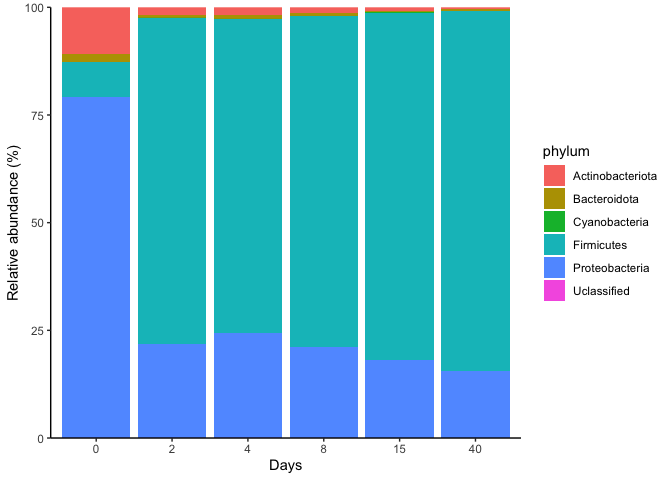
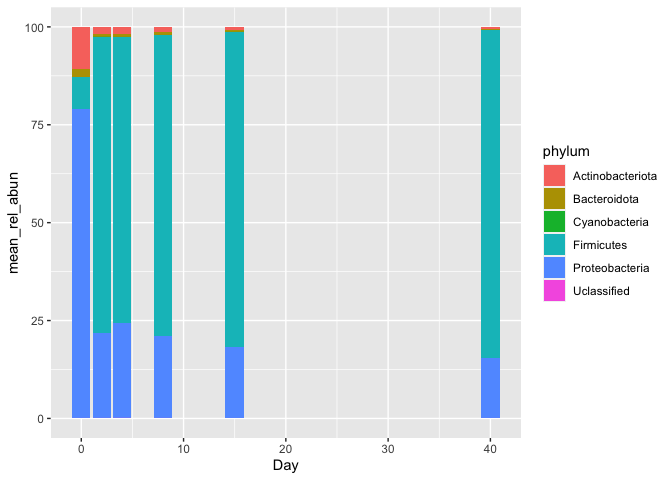
fix error

diff --git a/data_wrangling.md b/data_wrangling.md
@@ -1,4 +1,4 @@
-Data wrangling from amplicon sequencing
+Amplicon sequencing data wrangling
 ================
 Johan S. Sáenz
 
@@ -185,6 +185,30 @@ counts %>%
 
 ## Replace taxon names
 
+Microbial taxonomy is difficult :( . Sometimes, a name or taxonomy can
+not be assigned to a DNA sequence and we need to deal with that. What
+cases do we have? :
+
+1.  An empty value, no name no taxonomy.
+
+2.  The taxon can be call candidatus_xx. This probably means there is
+    not a cultivated reference similar to that sequence.
+
+3.  The taxon is call unclassified (That is self explanatory), but
+    sometimes a taxon can be classify at Phylum level and not to lower
+    levels. In that case we find names like: Family
+    =unclassified_Lactobacillaceae.
+
+As we want to standardize our names, we can rename those taxa with
+unfamiliar names. In that way we can group them later in the same group.
+For that we can use the function `mutate()` and `if_else()`. With the
+function `mutate()` you can add new variables and rewrite existing ones.
+On the other hand, `if_else()`, is a bit more complicated, because it
+works as a conditional. For example
+`if_else(is.na(phylum), "Uclassified", phylum))` if phylum is a missing
+value, rename to “Unclassified”, if not keep the value in phylum. This
+works great when we have empty or missing values.
+
 ``` r
 counts %>% 
   pivot_longer(-OTUID,
@@ -208,6 +232,15 @@ counts %>%
      9 b7baa37944fb48185b3ccd35739564a1 C40C      4730 Firmicutes
     10 b7baa37944fb48185b3ccd35739564a1 C4A       6459 Firmicutes
     # … with 5,804 more rows
+
+More often, when want to replace existing strings or text. In that case
+we can use `str_replace()`. This functions is quite versatile if you
+combine it with
+[Regex](https://cran.r-project.org/web/packages/stringr/vignettes/regular-expressions.html)
+(regular expressions). Have a look at the example, we used . and \* as
+special characters to match all characters after “candidatus” and
+“unclassified”. The . would match any character and \* would match 0 or
+more times the previous character.
 
 ``` r
 #An example for a different string
@@ -322,7 +355,7 @@ counts %>%
   geom_bar(stat = "identity")
 ```
 
-![](data_wrangling_files/figure-gfm/unnamed-chunk-8-1.png)
+![](data_wrangling_files/figure-gfm/unnamed-chunk-9-1.png)
 
 ## Create a factor with the data (correct x-axis) and PIMP your plot
 
@@ -352,7 +385,7 @@ counts %>%
   theme_classic()
 ```
 
-![](data_wrangling_files/figure-gfm/unnamed-chunk-9-1.png)
+![](data_wrangling_files/figure-gfm/unnamed-chunk-10-1.png)
 
 ## Select colors for bar plot
 
@@ -362,7 +395,7 @@ Brewer](https://colorbrewer2.org/#type=sequential&scheme=BuGn&n=3) to
 pull 8 different colors and create a vector as shown below.
 
 After, you can add a new layer to the pipe to set the color palette
-chosen by you using `scale_fill_manual(values = bar_colors)`
+chosen by you using `scale_fill_manual(values = col_values)`
 
 ``` r
 col_values <- c('#e41a1c','#377eb8','#4daf4a','#984ea3',
@@ -388,15 +421,10 @@ counts %>%
              fill = phylum)) +
   geom_bar(stat = "identity") +
   scale_y_continuous(expand = c(0,0)) +
-  scale_fill_manual(values = col_values)# modify scale 
-```
-
-![](data_wrangling_files/figure-gfm/unnamed-chunk-10-1.png)
-
-``` r
+  scale_fill_manual(values = col_values) +# modify scale 
   labs(x ="Days", # axis names
        y = "Relative abundance (%)") +
   theme_classic()
 ```
 
-    NULL
+![](data_wrangling_files/figure-gfm/unnamed-chunk-11-1.png)
